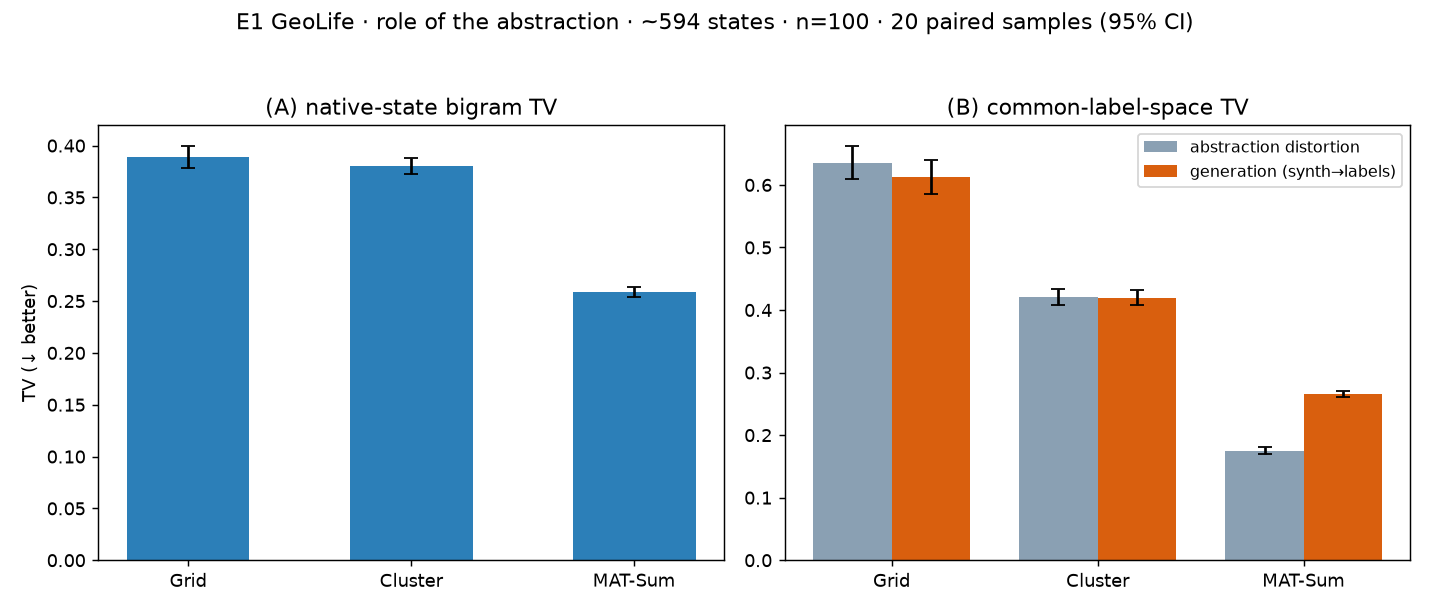
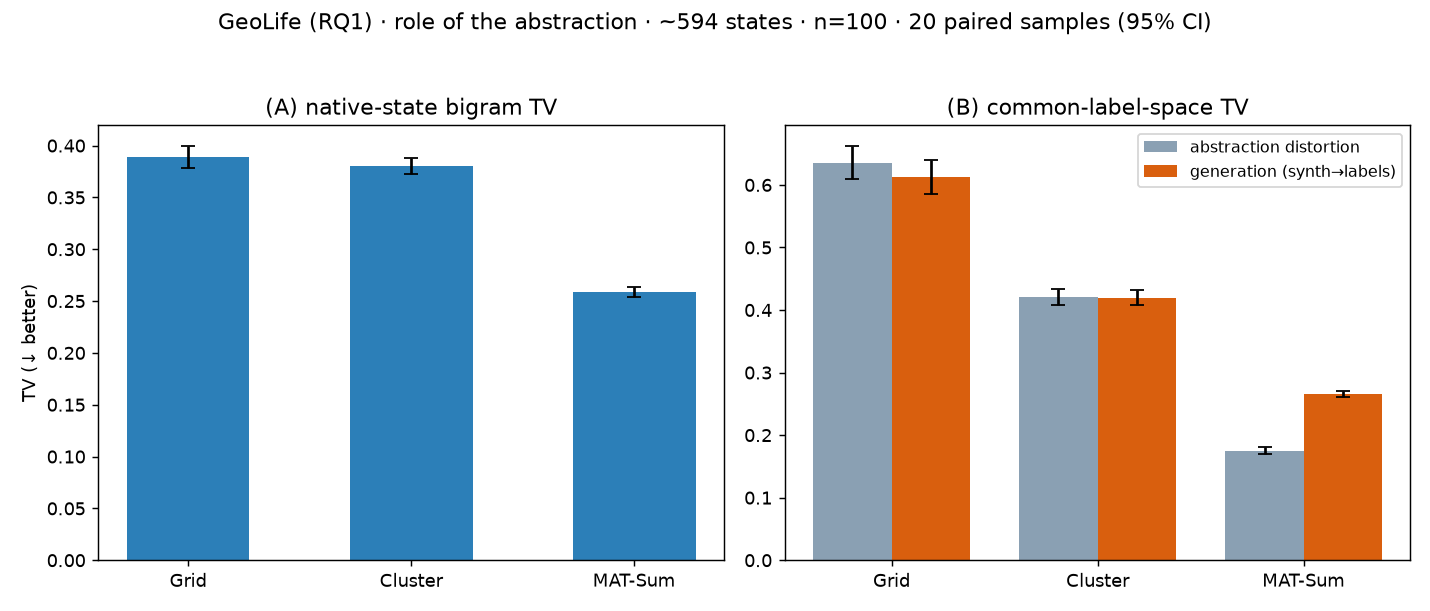
Fix citations/label and regenerate GeoLife figures with clean titles
- paper/main.tex: kavalionak2026 typo fix, drop undefined mobilitySurvey cite,
  add ST-DiffTraj bibitem (wang2024stdifftraj), add \label{sec:rq3}.
- Regenerate GeoLife figures E1/E2/E3 + audit with titles GeoLife (RQ1/RQ2/RQ3)
  and 'study-area audit' (no more E1/E2/E3 in the images), from summary CSVs
  (replot_geolife_figs.py) and geolife_retention.py.

Changed region(s): [[0.1538, 0.0, 0.8615, 0.0622]]

diff --git a/paper/main.tex b/paper/main.tex
@@ -61,7 +61,7 @@ is available for estimating the generative model.
 Most work on synthetic mobility addresses this problem primarily in geometric space. Trajectories are represented as coordinates, grid
 cells, spatial clusters, or nodes in a mobility graph, and the generator
 learns how users move between those spatial units
-\cite{mobilitySurvey,feng2020,gursoy2018}.
+\cite{feng2020,gursoy2018}.
 This representation is natural when the objective is geometric fidelity, but it is less suited to applications in which the relevant information is semantic: whether an individual visits a residential area, a
 restaurant, a transport facility, a park, or another meaningful urban context. Moreover, the representation itself determines the alphabet
 over which a generative model must learn transitions. A state space constructed solely from geometry may therefore be unnecessarily sparse or heterogeneous when the target structure is semantic.
@@ -227,7 +227,7 @@ is thus a data-driven, semantically-rich generator that is privacy-aware.
 A recent work ~\cite{kavalionak2026} tackles the same problem of data-driven mobility data generation 
 but from a complementary angle. Their approach abstracts movement by spatially clustering GPS points into regions, builds a weighted mobility graph, and generates a second-order Markov random walk
 projected onto the road network by a routing engine. Two differences delimit our contribution.
-First, the abstraction in \cite{avalionak2026} is spatial rather than semantic: nodes are geometric clusters, yielding a geometric trace, whereas our approach abstracts away from the geometric facets and preserves the underlying semantics. Second, and more importantly, the evaluation targets are orthogonal: \cite{kavalionak2026} assess population-level
+First, the abstraction in \cite{kavalionak2026} is spatial rather than semantic: nodes are geometric clusters, yielding a geometric trace, whereas our approach abstracts away from the geometric facets and preserves the underlying semantics. Second, and more importantly, the evaluation targets are orthogonal: \cite{kavalionak2026} assess population-level
 spatial fidelity via grid-density distances (MSE, JSD, EMD, PCC) and graph-structural metrics, excluding trajectory-level (individual) similarity. 
 Our evaluation is the mirror image: we measure
 semantic fidelity ($n$-gram and MUITAS distances) and place individual-level privacy at the center (distance-to-closest-record, copy rate, $\varepsilon$-DP). The same quantity, the closeness of a synthetic trace to a real individual, is what we explicitly penalize. The two works are thus complementary views:
@@ -1084,6 +1084,7 @@ Under an identical segmented log-$n$ fit the Paris saturation point is $n^\star{
 the datasets differ in the \emph{magnitude} of the pre-plateau gain, not in where quality saturates.
 
 \subsection{RQ3 - Generator capacity and privacy–fidelity trade-off}
+\label{sec:rq3}
 
 RQ3 asks whether, at a fixed \textsc{MAT-Sum} representation, increasing generator capacity buys better semantic fidelity, and at what disclosure cost. We compare two generators: the order-1 Markov and a small LSTM language model over the same per-sample symbol vocabulary holding everything else identical: the same nested paired user samples as RQ2
 ($D_{20}\!\subset\!D_{50}\!\subset\!D_{100}\!\subset\!D_{300}\!\subset\!D_{581}$, 20 replicates),
@@ -1475,6 +1476,7 @@ Approach for Urban Trajectory Generation. \emph{MuseKDE Workshop}, IEEE Internat
 \bibitem{pugliese2023} C.~Pugliese, F.~Lettich, F.~Pinelli, C.~Renso. Summarizing Trajectories Using Semantically Enriched Geographical Context (MAT-Sum). \emph{ACM SIGSPATIAL}, 2023.
 \bibitem{pugliese2025} C.~Pugliese, F.~Lettich, G.~Rocchietti, C.~Renso, F.~Pinelli. Human Mobility Datasets Enriched With Contextual and Social Dimensions. \emph{arXiv:2510.02333}; Zenodo 15658129, 2025.
 \bibitem{privtrace} H.~Wang, Z.~Zhang, et al. PrivTrace: Differentially Private Trajectory Synthesis by Adaptive Markov Models. \emph{USENIX Security}, 2023.
+\bibitem{wang2024stdifftraj} B.~Wang, J.~Yu, J.~Han, and S.~Qiu. ST-DiffTraj: A Spatiotemporal-Aware Diffusion Model for Trajectory Generation. In \emph{Proc.\ 7th Int.\ Conf.\ on Algorithms, Computing and Artificial Intelligence (ACAI)}, 2024.
 \bibitem{rao2020} J.~Rao, S.~Gao, et al. LSTM-TrajGAN: A Deep Learning Approach to Trajectory Privacy Protection. \emph{GIScience}, 2020.
 \bibitem{song2010} C.~Song, T.~Koren, P.~Wang, A.-L.~Barab\'asi. Modelling the Scaling Properties of Human Mobility (EPR). \emph{Nature Physics}, 2010.
 \bibitem{spaccapietra2008} S.~Spaccapietra, C.~Parent, et al. A Conceptual View on Trajectories. \emph{Data \& Knowledge Engineering}, 2008.

diff --git a/replot_geolife_figs.py b/replot_geolife_figs.py
@@ -1,0 +1,56 @@
+"""Regenerate the GeoLife E1/E2/E3 figures from the committed summary CSVs, with clean titles
+(E1/E2/E3 -> GeoLife (RQ1/RQ2/RQ3)). No experiment re-run: reads results/geolife/*_summary.csv.
+Layouts/colors reproduce the original scripts exactly; only the suptitle text changes."""
+import os, numpy as np, pandas as pd
+import matplotlib; matplotlib.use("Agg"); import matplotlib.pyplot as plt
+
+RES = "results/geolife"; FIG = "paper/figures"; R = 20
+os.makedirs(FIG, exist_ok=True)
+
+# ---------- E1 -> RQ1 ----------
+adf = pd.read_csv(f"{RES}/geolife_e1_summary.csv")
+x = np.arange(len(adf)); fig, (aA, aB) = plt.subplots(1, 2, figsize=(11, 4.7))
+aA.bar(x, adf.native_biTV, 0.55, yerr=adf.native_biTV_ci, capsize=4, color="#2c7fb8")
+aA.set_xticks(x); aA.set_xticklabels(adf.method); aA.set_ylabel("TV (↓ better)")
+aA.set_title("(A) native-state bigram TV")
+w = 0.38
+aB.bar(x - w/2, adf.distortion, w, yerr=adf.distortion_ci, capsize=4, color="#8aa0b3", label="abstraction distortion")
+aB.bar(x + w/2, adf.sem_genTV, w, yerr=adf.sem_genTV_ci, capsize=4, color="#d95f0e", label="generation (synth→labels)")
+aB.set_xticks(x); aB.set_xticklabels(adf.method); aB.set_title("(B) common-label-space TV"); aB.legend(fontsize=9)
+fig.suptitle(f"GeoLife (RQ1) · role of the abstraction · ~{int(adf.n_states.mean())} states · n=100 · {R} paired samples (95% CI)", fontsize=12)
+fig.tight_layout(rect=[0, 0, 1, 0.94]); fig.savefig(f"{FIG}/fig_geolife_e1.png", dpi=130); plt.close(fig)
+print("wrote fig_geolife_e1.png")
+
+# ---------- E2 -> RQ2 ----------
+adf = pd.read_csv(f"{RES}/geolife_e2_summary.csv").sort_values("n"); ns = adf.n.to_numpy(); sat = 75
+x = ns; fig, ax = plt.subplots(1, 3, figsize=(14, 4.4))
+ax[0].errorbar(x, adf.sem_genTV, yerr=adf.sem_genTV_ci, fmt="o-", color="#2c7fb8", capsize=3, lw=2)
+ax[0].axvline(sat, color="#888", ls=":", label=f"n*≈{sat}"); ax[0].legend(fontsize=9)
+ax[0].set_title("(A) Fidelity"); ax[0].set_ylabel("semantic generation TV (↓)")
+ax[1].errorbar(x, adf.DCR_synth, yerr=adf.DCR_synth_ci, fmt="s-", color="#d95f0e", capsize=3, lw=2, label="synth→training")
+ax[1].errorbar(x, adf.DCR_base, yerr=adf.DCR_base_ci, fmt="o--", color="#555", capsize=3, lw=2, label="real→real (user-aware)")
+ax[1].set_title("(B) Distance to real records"); ax[1].set_ylabel("DCR (↑ safer)"); ax[1].legend(fontsize=9)
+ax[2].errorbar(x, adf.exact_copies, yerr=adf.exact_copies_ci, fmt="D-", color="#6a53a6", capsize=3, lw=2)
+ax[2].set_title("(C) Exact session copies"); ax[2].set_ylabel("exact copies (of 200)"); ax[2].axhline(0, color="#ccc", lw=.8)
+for a in ax:
+    a.set_xscale("log"); a.set_xlabel("number of individuals  n"); a.set_xticks(x); a.set_xticklabels(x); a.minorticks_off()
+fig.suptitle(f"GeoLife (RQ2) · MAT-Sum+Markov scaling · {R} nested paired replicates · fixed abstraction parameters", fontsize=12)
+fig.tight_layout(rect=[0, 0, 1, 0.94]); fig.savefig(f"{FIG}/fig_geolife_e2.png", dpi=130); plt.close(fig)
+print("wrote fig_geolife_e2.png")
+
+# ---------- E3 -> RQ3 ----------
+adf = pd.read_csv(f"{RES}/geolife_e3_summary.csv"); ns = sorted(adf.n.unique())
+x = np.array(ns); fig, ax = plt.subplots(1, 3, figsize=(14, 4.4)); C = {"Markov": "#2c7fb8", "LSTM": "#d95f0e"}
+for g in ("Markov", "LSTM"):
+    s = adf[adf.gen == g].sort_values("n")
+    ax[0].errorbar(x, s.sem_biTV, yerr=s.sem_biTV_ci, fmt="o-", color=C[g], capsize=3, lw=2, label=g)
+    ax[1].errorbar(x, s.near_pct, yerr=s.near_pct_ci, fmt="s-", color=C[g], capsize=3, lw=2, label=g)
+    ax[2].errorbar(x, s.dDCR, yerr=s.dDCR_ci, fmt="D-", color=C[g], capsize=3, lw=2, label=g)
+ax[0].set_title("(A) Fidelity"); ax[0].set_ylabel("semantic generation TV (↓)")
+ax[1].set_title("(B) Near-copy disclosure"); ax[1].set_ylabel("% synth with max MUITAS ≥ 0.95 (↓)")
+ax[2].set_title("(C) ΔDCR (↑ safer)"); ax[2].set_ylabel("DCR synth − real baseline"); ax[2].axhline(0, color="#ccc", lw=.8)
+for a in ax:
+    a.set_xscale("log"); a.set_xlabel("number of individuals  n"); a.set_xticks(x); a.set_xticklabels(x); a.minorticks_off(); a.legend(fontsize=9)
+fig.suptitle(f"GeoLife (RQ3) · generator capacity (Markov vs LSTM) · same MAT-Sum representation · {R} nested paired replicates", fontsize=12)
+fig.tight_layout(rect=[0, 0, 1, 0.94]); fig.savefig(f"{FIG}/geolife_e3.png", dpi=130); plt.close(fig)
+print("wrote geolife_e3.png")

diff --git a/geolife_retention.py b/geolife_retention.py
@@ -66,7 +66,7 @@ samp = P.sample(min(300000, len(P)), random_state=0)
 hb = ax[2].hexbin(samp.lon, samp.lat, gridsize=60, bins="log", cmap="viridis")
 ax[2].set_title("(C) coverage of kept sessions"); ax[2].set_xlabel("lon"); ax[2].set_ylabel("lat"); ax[2].set_aspect("equal")
 fig.colorbar(hb, ax=ax[2], shrink=.8, label="log point density")
-fig.suptitle("GeoLife pre-E1 audit (frozen filters)", fontsize=13)
+fig.suptitle("GeoLife study-area audit (frozen filters)", fontsize=13)
 fig.tight_layout(rect=[0, 0, 1, 0.95])
 p = os.path.join(os.environ.get("MATSUM_FIG", OUT), "geolife_diagnostics.png")
 os.makedirs(os.path.dirname(p), exist_ok=True); fig.savefig(p, dpi=130); plt.close(fig)
